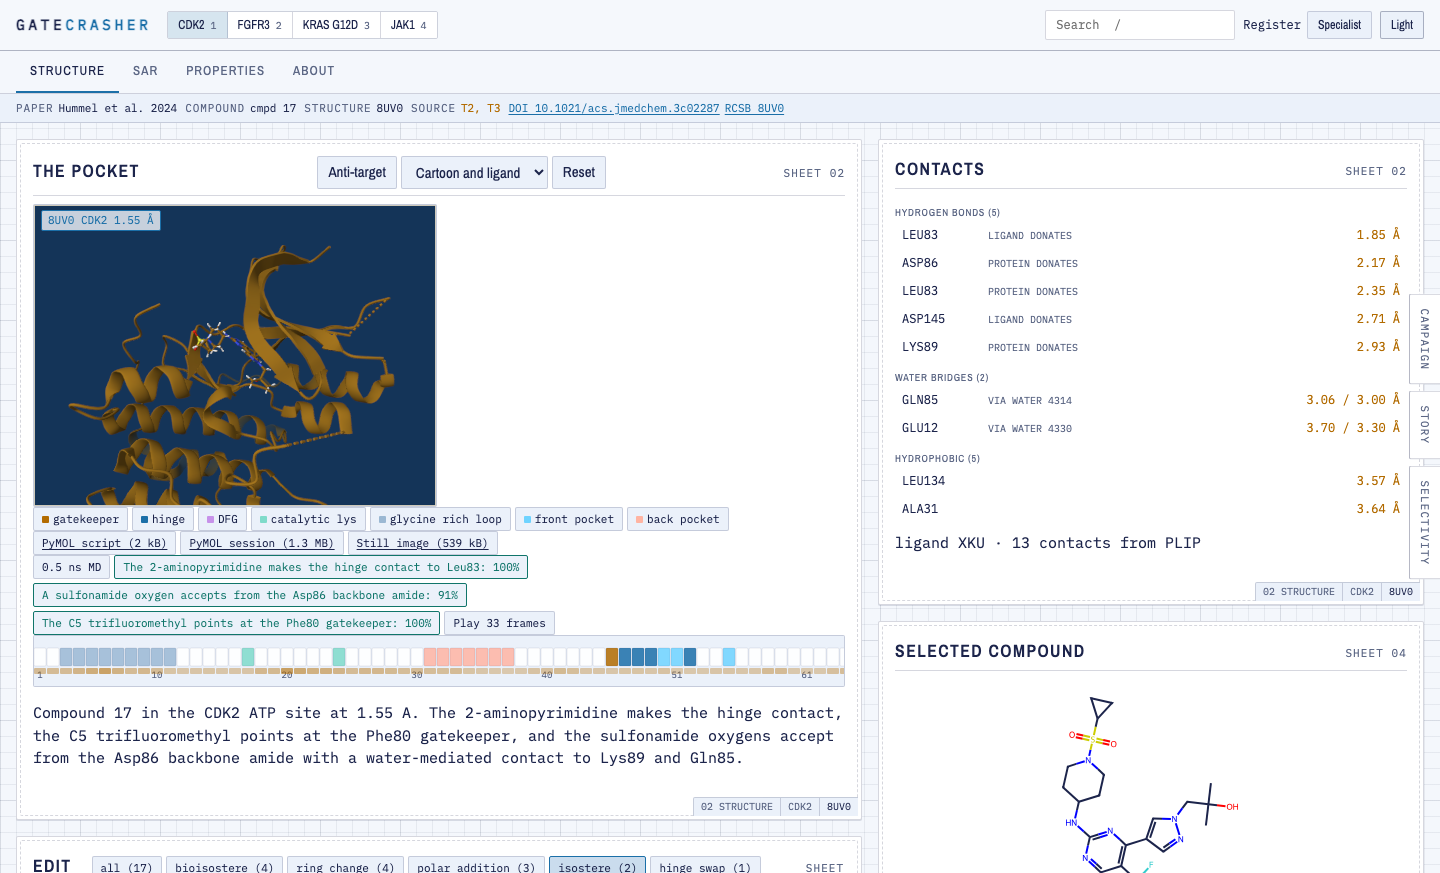
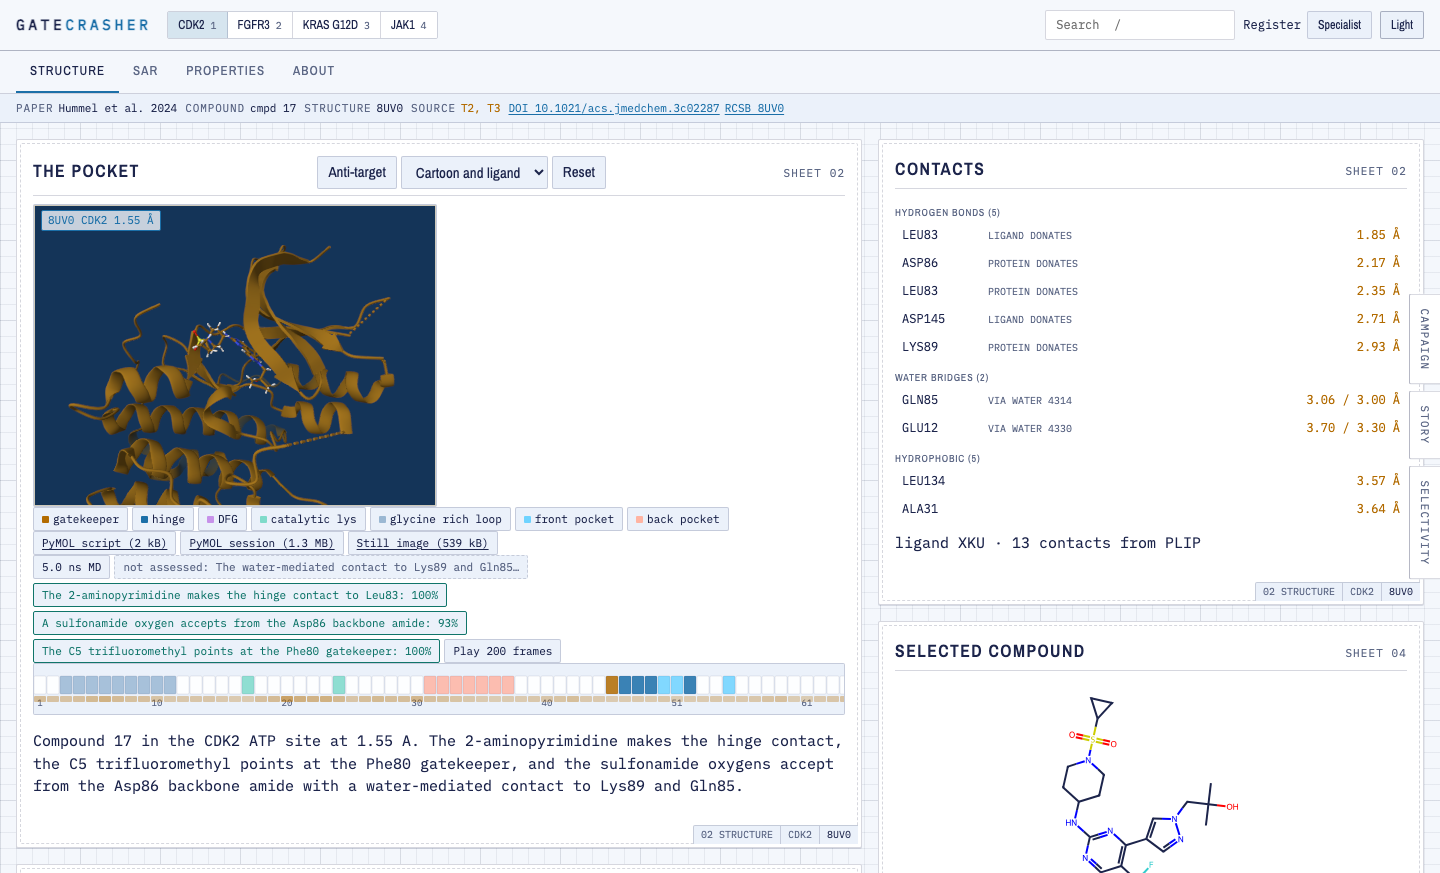
Tick the caveats on the roadmap, and refresh the screenshots
The limits now reach the page beside the claims, so the roadmap says so in the
commit that follows the one which did it rather than several later.

Screenshots regenerated by the verification runs: the structure sheet now shows
the real 5 ns row rather than the interim 500 ps one, and phone-tap carries the
tap-to-load affordance.

Claude-Session: https://claude.ai/code/session_01HkDbmCTHqoA5exPm7uRHnP

Changed region(s): [[0.0, 0.6186, 0.5938, 1.0]]

diff --git a/README.html b/README.html
@@ -193,6 +193,7 @@ gc all      &lt;slug&gt;                             # the pipeline, in order
 <li><span class="emd-check">&#9989;</span> <strong>Every cross-link asserted.</strong> Each row of the interaction matrix is now tested for the state change it causes rather than for the element being drawn: a plot point, an R-group cell, a substituent, a cliff pair and an edit card all have to move the selection, not merely exist. Writing them found the last unimplemented row, so a substituent now filters the table to the compounds carrying it</li>
 <li><span class="emd-check">&#9989;</span> <strong>Where the page phones.</strong> The app contacts its own origin and the RCSB, for coordinates it never redistributes, and nothing else. The three faces are served from here rather than a font CDN, so the rule holds strictly rather than by interpretation, and a test pins the page to exactly that list: a new third party has to be added deliberately rather than arriving unnoticed</li>
 <li><span class="emd-check">&#9989;</span> <strong>Reachable without a mouse, legible in both themes.</strong> Every control that answers Enter or Space is now tested on the key as well as the click, and the contrast of the prose, the grid ground and the provenance rail is measured in the dark theme as well as the light one. Dark is what most readers see and was the half going unmeasured</li>
+<li><span class="emd-check">&#9989;</span> <strong>What the run could not test, published with what it did.</strong> Each simulation names its own limits before it starts, and those now reach the page beside the claims rather than stopping at the report: the water-mediated bridges a solute-only trajectory cannot follow, an activation loop modelled without its phosphotyrosines, a selectivity argument that would need the anti-target simulated alongside. Drawn as neither a pass nor a failure, because a limit is the absence of a verdict rather than one</li>
 <li><span class="emd-check">&#11036;</span> <strong>Short molecular dynamics.</strong> A 5 ns run per primary structure with an RMSF track on the pocket ruler and a playable trajectory, and no trajectory ships that does not support what the paper claims. The verdict logic is proved in both directions; the production runs are in progress</li>
 <li><span class="emd-check">&#11036;</span> <strong>Per-residue dynamics on the anti-target.</strong> The twin view compares two crystal poses; comparing their flexibility is the obvious next question and is not answered yet</li>
 </ul>

diff --git a/README.preview.html b/README.preview.html
@@ -249,6 +249,7 @@ gc all      &lt;slug&gt;                             # the pipeline, in order
 <li><span class="emd-check">&#9989;</span> <strong>Every cross-link asserted.</strong> Each row of the interaction matrix is now tested for the state change it causes rather than for the element being drawn: a plot point, an R-group cell, a substituent, a cliff pair and an edit card all have to move the selection, not merely exist. Writing them found the last unimplemented row, so a substituent now filters the table to the compounds carrying it</li>
 <li><span class="emd-check">&#9989;</span> <strong>Where the page phones.</strong> The app contacts its own origin and the RCSB, for coordinates it never redistributes, and nothing else. The three faces are served from here rather than a font CDN, so the rule holds strictly rather than by interpretation, and a test pins the page to exactly that list: a new third party has to be added deliberately rather than arriving unnoticed</li>
 <li><span class="emd-check">&#9989;</span> <strong>Reachable without a mouse, legible in both themes.</strong> Every control that answers Enter or Space is now tested on the key as well as the click, and the contrast of the prose, the grid ground and the provenance rail is measured in the dark theme as well as the light one. Dark is what most readers see and was the half going unmeasured</li>
+<li><span class="emd-check">&#9989;</span> <strong>What the run could not test, published with what it did.</strong> Each simulation names its own limits before it starts, and those now reach the page beside the claims rather than stopping at the report: the water-mediated bridges a solute-only trajectory cannot follow, an activation loop modelled without its phosphotyrosines, a selectivity argument that would need the anti-target simulated alongside. Drawn as neither a pass nor a failure, because a limit is the absence of a verdict rather than one</li>
 <li><span class="emd-check">&#11036;</span> <strong>Short molecular dynamics.</strong> A 5 ns run per primary structure with an RMSF track on the pocket ruler and a playable trajectory, and no trajectory ships that does not support what the paper claims. The verdict logic is proved in both directions; the production runs are in progress</li>
 <li><span class="emd-check">&#11036;</span> <strong>Per-residue dynamics on the anti-target.</strong> The twin view compares two crystal poses; comparing their flexibility is the obvious next question and is not answered yet</li>
 </ul>

diff --git a/README.md b/README.md
@@ -129,6 +129,7 @@ Roadmap, roughly in dependency order.
 - [x] **Every cross-link asserted.** Each row of the interaction matrix is now tested for the state change it causes rather than for the element being drawn: a plot point, an R-group cell, a substituent, a cliff pair and an edit card all have to move the selection, not merely exist. Writing them found the last unimplemented row, so a substituent now filters the table to the compounds carrying it
 - [x] **Where the page phones.** The app contacts its own origin and the RCSB, for coordinates it never redistributes, and nothing else. The three faces are served from here rather than a font CDN, so the rule holds strictly rather than by interpretation, and a test pins the page to exactly that list: a new third party has to be added deliberately rather than arriving unnoticed
 - [x] **Reachable without a mouse, legible in both themes.** Every control that answers Enter or Space is now tested on the key as well as the click, and the contrast of the prose, the grid ground and the provenance rail is measured in the dark theme as well as the light one. Dark is what most readers see and was the half going unmeasured
+- [x] **What the run could not test, published with what it did.** Each simulation names its own limits before it starts, and those now reach the page beside the claims rather than stopping at the report: the water-mediated bridges a solute-only trajectory cannot follow, an activation loop modelled without its phosphotyrosines, a selectivity argument that would need the anti-target simulated alongside. Drawn as neither a pass nor a failure, because a limit is the absence of a verdict rather than one
 - [ ] **Short molecular dynamics.** A 5 ns run per primary structure with an RMSF track on the pocket ruler and a playable trajectory, and no trajectory ships that does not support what the paper claims. The verdict logic is proved in both directions; the production runs are in progress
 - [ ] **Per-residue dynamics on the anti-target.** The twin view compares two crystal poses; comparing their flexibility is the obvious next question and is not answered yet
 

diff --git a/README.polished.md b/README.polished.md
@@ -129,6 +129,7 @@ Roadmap, roughly in dependency order.
 - [x] **Every cross-link asserted.** Each row of the interaction matrix is now tested for the state change it causes rather than for the element being drawn: a plot point, an R-group cell, a substituent, a cliff pair and an edit card all have to move the selection, not merely exist. Writing them found the last unimplemented row, so a substituent now filters the table to the compounds carrying it
 - [x] **Where the page phones.** The app contacts its own origin and the RCSB, for coordinates it never redistributes, and nothing else. The three faces are served from here rather than a font CDN, so the rule holds strictly rather than by interpretation, and a test pins the page to exactly that list: a new third party has to be added deliberately rather than arriving unnoticed
 - [x] **Reachable without a mouse, legible in both themes.** Every control that answers Enter or Space is now tested on the key as well as the click, and the contrast of the prose, the grid ground and the provenance rail is measured in the dark theme as well as the light one. Dark is what most readers see and was the half going unmeasured
+- [x] **What the run could not test, published with what it did.** Each simulation names its own limits before it starts, and those now reach the page beside the claims rather than stopping at the report: the water-mediated bridges a solute-only trajectory cannot follow, an activation loop modelled without its phosphotyrosines, a selectivity argument that would need the anti-target simulated alongside. Drawn as neither a pass nor a failure, because a limit is the absence of a verdict rather than one
 - [ ] **Short molecular dynamics.** A 5 ns run per primary structure with an RMSF track on the pocket ruler and a playable trajectory, and no trajectory ships that does not support what the paper claims. The verdict logic is proved in both directions; the production runs are in progress
 - [ ] **Per-residue dynamics on the anti-target.** The twin view compares two crystal poses; comparing their flexibility is the obvious next question and is not answered yet
 
